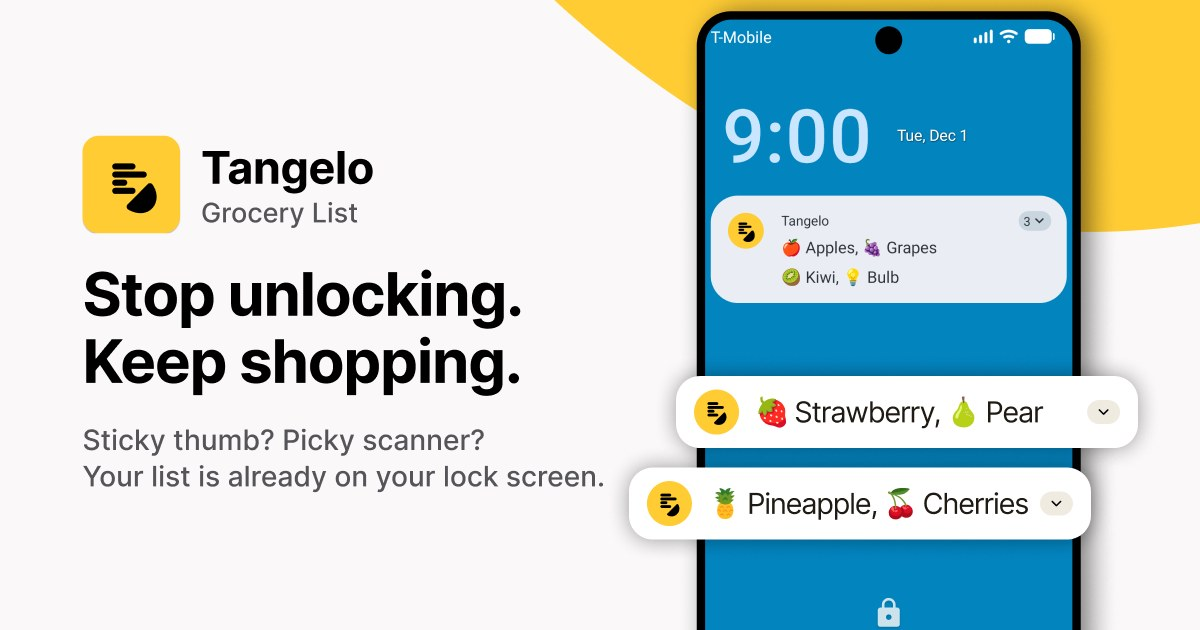
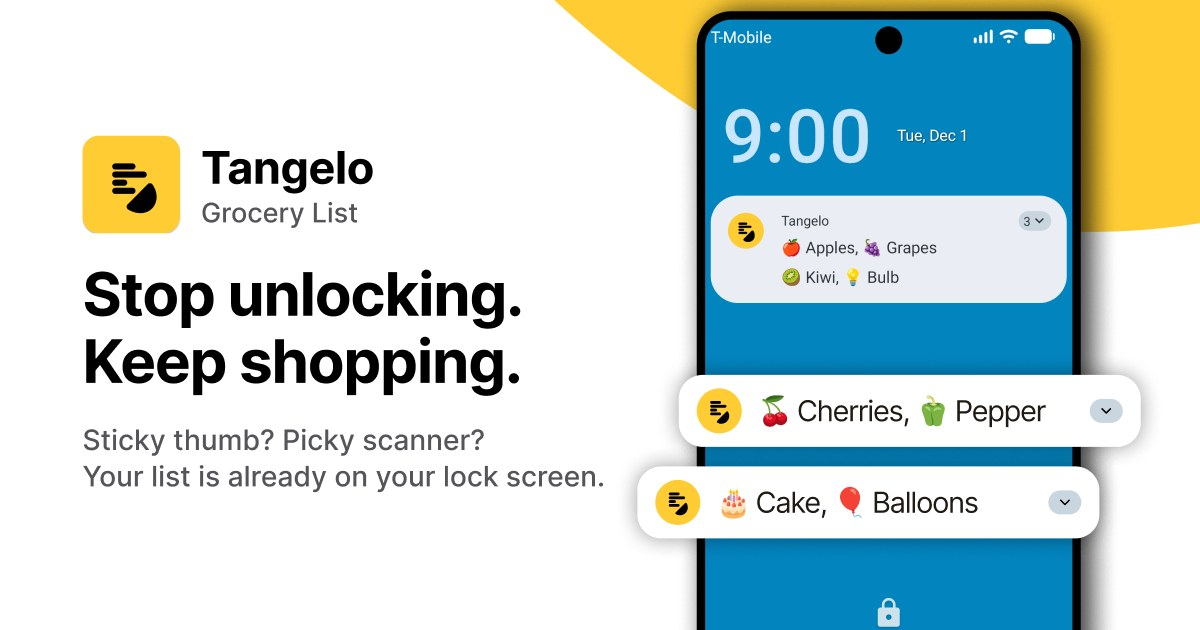
updated landing

Changed region(s): [[0.4933, 0.0, 0.9558, 1.0]]

diff --git a/index.html b/index.html
@@ -5,7 +5,7 @@
   <meta name="viewport" content="width=device-width, initial-scale=1, viewport-fit=cover">
   <title>Tangelo — Grocery list on your lock screen</title>
   <meta name="description" content="Tangelo is a grocery list with emojis that also lives on your lock screen. Stop unlocking, keep shopping. Free on Google Play.">
-  <meta name="theme-color" content="#FAF8F8">
+  <meta name="theme-color" content="#FFFFFF">
   <link rel="icon" href="assets/icon.svg" type="image/svg+xml">
   <link rel="apple-touch-icon" href="assets/icon.svg">
 
@@ -48,7 +48,7 @@
       unicode-range: U+0000-00FF,U+0131,U+0152-0153,U+02BB-02BC,U+02C6,U+02DA,U+02DC,U+0304,U+0308,U+0329,U+2000-206F,U+2074,U+20AC,U+2122,U+2191,U+2193,U+2212,U+2215,U+FEFF,U+FFFD;
     }
     :root {
-      --bg: #FAF8F8;
+      --bg: #FFFFFF;
       --ink: #000;
       --muted: #545459;
       --yellow: #FFCC34;
@@ -215,7 +215,7 @@
       .wave--top { display: none; }
       .wave--bottom { display: block; bottom: 0; width: 160%; left: -30%; }
       /* slightly wider than the text column so the phone fills the screen height without a gap above it */
-      .device { width: min(calc(100% + 8px), 456px); padding-top: 16px; justify-self: center; }
+      .device { width: min(calc(100% + 2px), 450px); padding-top: 16px; justify-self: center; }
     }
     @media (prefers-reduced-motion: reduce) {
       .store { transition: none; }
@@ -258,8 +258,8 @@
     </section>
 
     <figure class="device">
-      <img src="assets/phone.webp" width="1372" height="1713" fetchpriority="high"
-           alt="Android lock screen with Tangelo notifications showing a grocery list: Apples, Grapes, Kiwi, Bulb, Strawberry, Pear, Pineapple, Cherries">
+      <img src="assets/phone.webp" width="1351" height="1713" fetchpriority="high"
+           alt="Android lock screen with Tangelo notifications showing a grocery list: Apples, Grapes, Kiwi, Bulb, Cherries, Pepper, Cake, Balloons">
     </figure>
     </div>
   </main>
